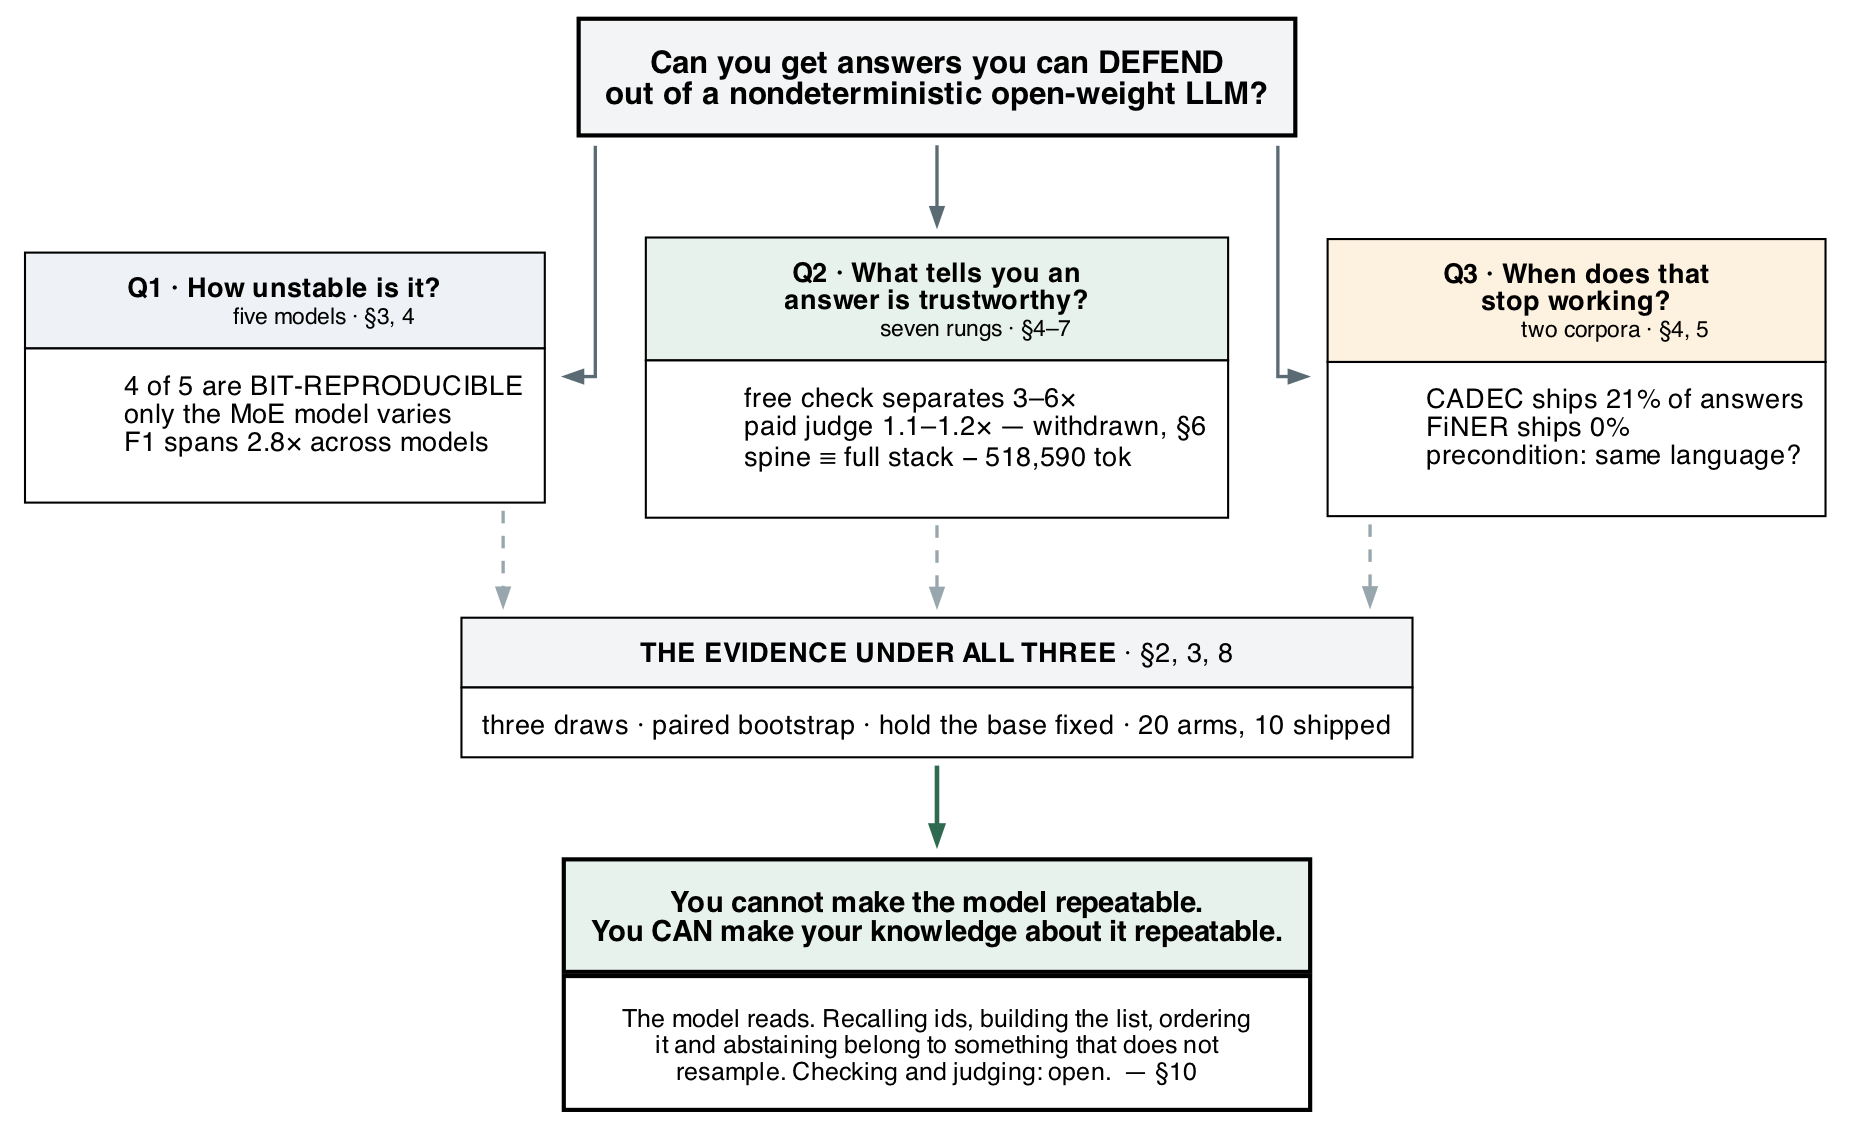
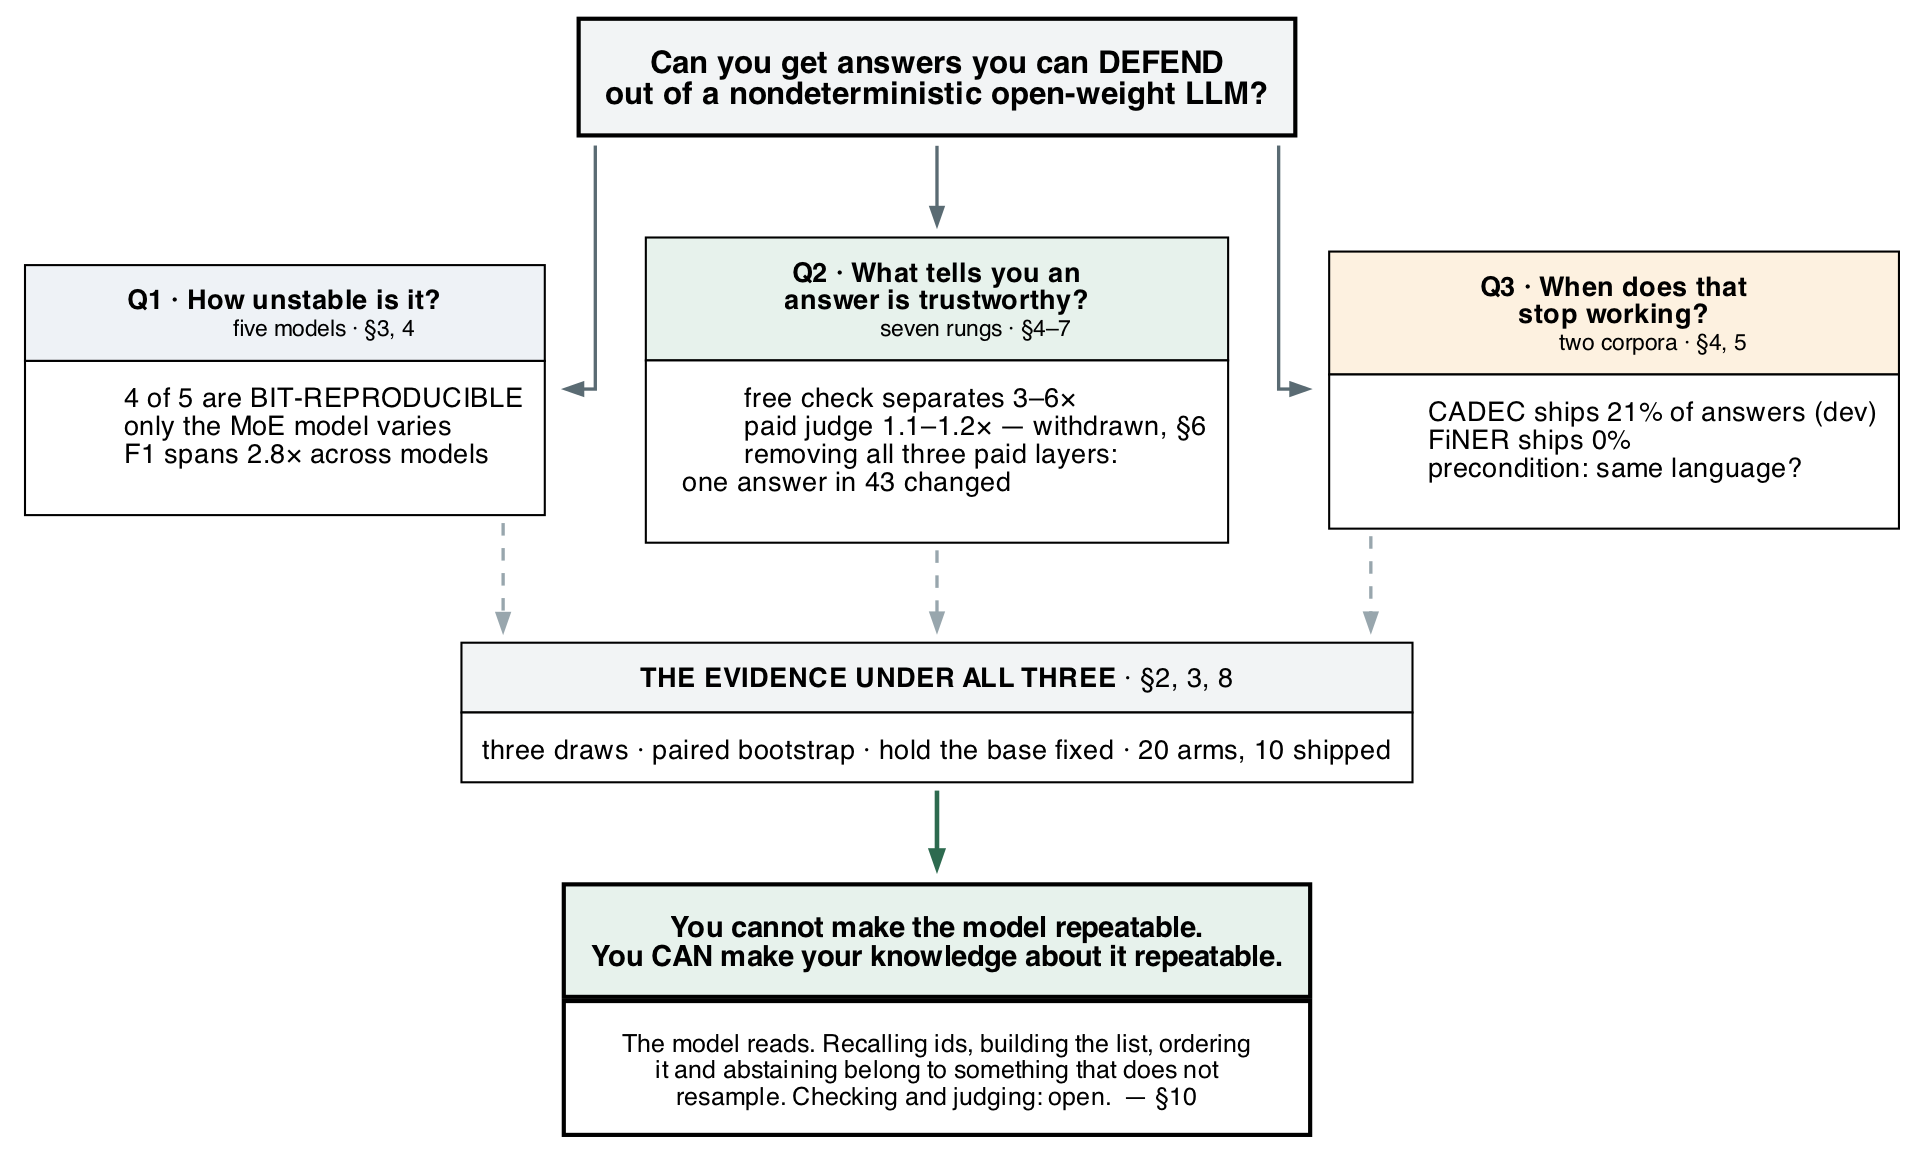
figure 2: replace a term the article no longer uses, label a split, drop a repeat
Both defects were created by today's own deletions. "spine = full stack - 518,590
tok" used a word that appeared only in the ablation subsection deleted this
morning — a grep now finds "spine" in the figure's filename and nowhere in the
prose. And "CADEC ships 21%" is a dev figure sitting just above a front-matter
box reporting 23% on held-out, with no split named, so the two things a reader
sees first appeared to contradict each other.

The section's caveat is also removed: the rewritten task section immediately
following now carries it at more length. The qualifier "on our task" stays.

diff --git a/docs/decisions.md b/docs/decisions.md
@@ -4594,3 +4594,25 @@ labelling, the multi-run problem, and the task-choice bound — where they had b
 scattered across a box and two trailing paragraphs.
 
 486 words, from ~560.
+
+## 2026-09-03 — Figure 2 and its section: two more defects created by the day's own deletions
+
+Both were caused by cutting elsewhere, which is the pattern worth recording: a
+deletion in the body leaves a dangling reference in a summary figure, and the
+figure is the last place anyone looks.
+
+1. **"spine = full stack - 518,590 tok" used a term the article no longer
+   contains.** The word "spine" for the stripped stack appeared only in the
+   ablation subsection, deleted this morning; a grep now finds it in the figure's
+   FILENAME and nowhere in the prose. Replaced with the article's current
+   phrasing: "removing all three paid layers: one answer in 43 changed".
+2. **"CADEC ships 21% of answers" is a DEV figure sitting three inches above a
+   front-matter box that says 23% on held-out.** Both correct, different splits,
+   and the figure did not say which — so it read as a contradiction in the two
+   things a reader sees first. Now labelled "(dev)".
+
+Also removed: the caveat added to this section earlier today ("one never ran at
+all on this corpus and one we measured wrongly"). The rewritten "The task, and
+the result", which immediately follows, now says the same thing at more length —
+so the qualifier "On our task" stays, the explanation moves to the section whose
+job it is, and the two front-matter sections stop repeating each other.

diff --git a/docs/article-v3.md b/docs/article-v3.md
@@ -47,10 +47,9 @@ published is the comparison *between* them: the layers priced against each other
 on the same records, in the same run, with the free one entered as a competitor
 rather than as preprocessing. So we built all seven and measured each.
 
-**On our task, the staircase is not there.** One caveat we owe up front, because
-it limits how far that generalises: of the six layers above the model, one never
-ran at all on this corpus and one we measured wrongly. So what follows is a
-reckoning with the stack we built, not a proof about stacking.
+**On our task, the staircase is not there.** What follows is a reckoning with the
+stack we built, not a proof about stacking — the next section says why the
+distinction matters.
 
 ![Figure 2](figures/fig6-spine.png)
 
